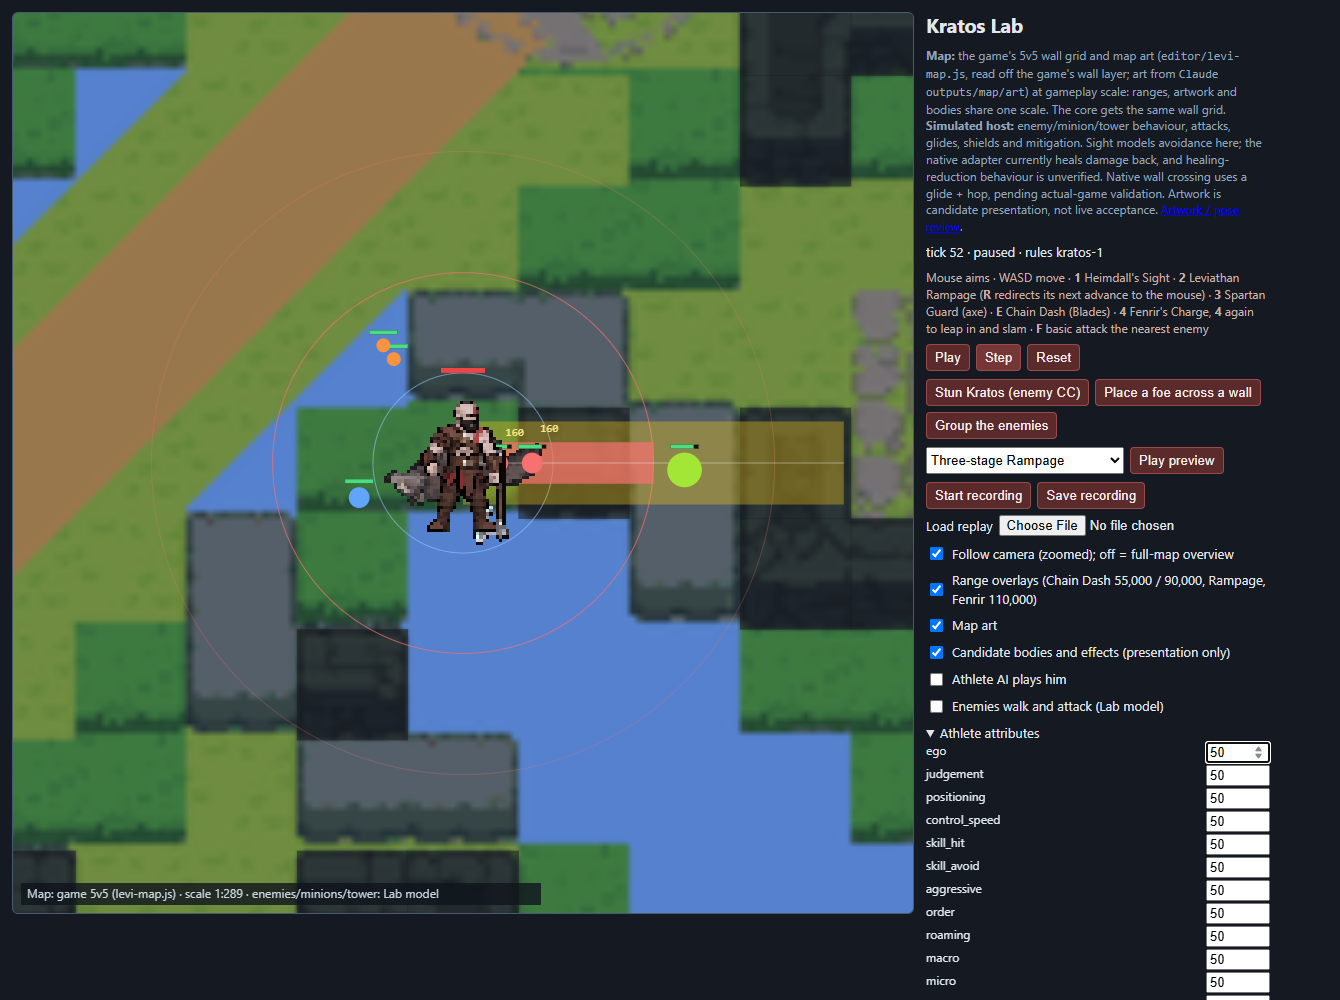
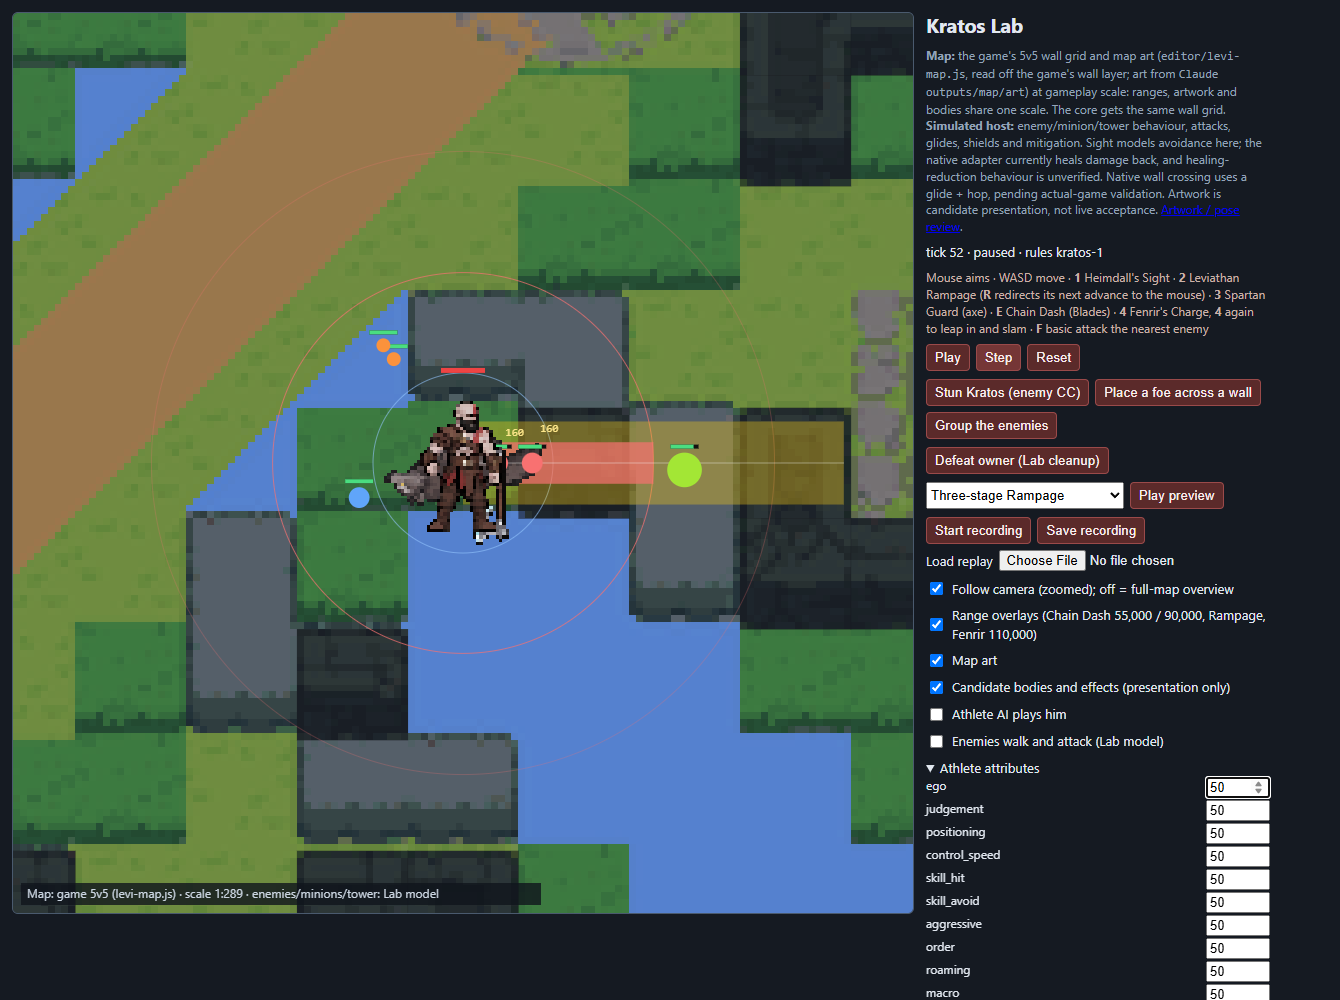
Record Kratos art acceptance and verify current-main integration

diff --git a/editor/kratos-lab.js b/editor/kratos-lab.js
@@ -134,6 +134,9 @@
     if (out.rejection && out.rejection !== lastRejection) log('Refused: ' + out.rejection);
     lastRejection = out.rejection || '';
     apply(out);
+    if(me.hp<=0){
+      me.deadStart??=tick;me.shields=[];me.pose='dead';me.poseUntil=0;glides=[];fx=[];queue=[];pendingHits=[];held.clear();
+    }
     const before = {...me.pos};
     tick++;
     for (const g of glides) { const k = Math.min(1, (tick - g.t0) / (g.t1 - g.t0)); g.who.pos = {x: g.from.x + (g.to.x - g.from.x) * k, y: g.from.y + (g.to.y - g.from.y) * k}; }
@@ -213,6 +216,7 @@
     return list.reduce((s, [a, b]) => s + Math.max(0, Math.min(b, tick) - Math.max(a, from)), 0);
   }
   function draw() {
+    ctx.imageSmoothingEnabled=false;
     if ($('zoom').checked) cam = {x: me.pos.x, y: me.pos.y, s: 900 / 260000}; else cam = {x: 480000, y: 480000, s: 900 / WORLD};
     ctx.fillStyle = '#2a3340'; ctx.fillRect(0, 0, 900, 900);
     const o = P({x: 0, y: 0});
@@ -309,6 +313,7 @@
   $('stunMe').onclick = () => { if (tick < me.immuneUntil) log('Kratos is CC-immune: the stun does nothing'); else { me.stunUntil = tick + 60; log('Kratos stunned 1 s'); } };
   $('wallDemo').onclick = () => { const c = wallCrossing(); me.pos = {...c.from}; find(2).pos = {...c.to}; find(2).hp = 1000; aim = {...c.to}; log('A foe across the wall: Chain Dash (E) hops over it'); };
   $('group').onclick = () => { units.filter(u => u.team === 1 && u.champion).forEach((u, i) => { u.pos = toward(me.pos, aim, 40000 + i * 12000); }); log('Enemies lined up toward the mouse'); };
+  $('defeat').onclick = () => {me.hp=0;me.deadStart=tick;log('Owner defeat injected into the Lab host; next core frame is dead.');};
   $('preview').onclick = () => startDemo($('demo').value);
   $('record').onclick = () => { if (recording) { $('record').textContent = 'Start recording'; recording = null; }
     else { reset(); window.kratosRecording = recording = {version: 1, transport: 1, rules_revision: R.revision, frames: []}; $('record').textContent = 'Stop recording'; log('Recording inputs, outputs and host observations (maximum two minutes).'); } };

diff --git a/editor/kratos.html b/editor/kratos.html
@@ -24,6 +24,7 @@ label{display:flex;gap:6px;align-items:center}
   <div class="keys">Mouse aims · WASD move · <b>1</b> Heimdall's Sight · <b>2</b> Leviathan Rampage (<b>R</b> redirects its next advance to the mouse) · <b>3</b> Spartan Guard (axe) · <b>E</b> Chain Dash (Blades) · <b>4</b> Fenrir's Charge, <b>4</b> again to leap in and slam · <b>F</b> basic attack the nearest enemy</div>
   <div class="row"><button id="play">Pause</button><button id="step">Step</button><button id="reset">Reset</button></div>
   <div class="row"><button id="stunMe">Stun Kratos (enemy CC)</button><button id="wallDemo">Place a foe across a wall</button><button id="group">Group the enemies</button></div>
+  <div class="row"><button id="defeat">Defeat owner (Lab cleanup)</button></div>
   <div class="row"><select id="demo"><option value="rampage">Three-stage Rampage</option><option value="sight">Sight / repeated incoming hits</option><option value="linked-dash">Guard → wall-crossing Dash</option><option value="dash-guard">Dash → empowered Guard</option><option value="fenrir">Fenrir arrival / return slam</option></select><button id="preview">Play preview</button></div>
   <div class="row"><button id="record">Start recording</button><button id="saveRecording">Save recording</button><label>Load replay <input type="file" id="loadRecording" accept=".json"></label></div>
   <label><input type="checkbox" id="zoom" checked> Follow camera (zoomed); off = full-map overview</label>

diff --git a/docs/kratos-art-review/results.md b/docs/kratos-art-review/results.md
@@ -1,0 +1,44 @@
+# Kratos art and Lab verification — 2026-11-10
+
+Implementation began at PR #74 head `740a8e9`. Current main `ad6dda3` was merged as `ef036bc` to preserve round-160 balance changes and resolve the generated roster conflicts. Kratos’s rules/core/data/WASM are unchanged from the original PR head. The new native code selects presentation only.
+
+## Automated results
+
+| Check | Result |
+|---|---|
+| Full native suite, GNU Windows toolchain, after merging main | **1,145 passed, 13 ignored, 0 failed** |
+| Native Kratos subset, before main merge | 30 passed: 26 existing kit/glue tests and four presentation tests |
+| Lab transport | 2 passed |
+| Existing kit browser checks | 10 passed |
+| Artwork/Lab browser checks | **27 passed** |
+| Presentation independence | 24 development + 12 holdout scenarios, identical complete shared-core inputs/outputs with artwork enabled/disabled |
+| Manual athlete independence | Each of 13 values at 20/80, across three fixtures; identical mechanics |
+| Native/WASM parity | **405 complete outputs equal** under identical saved inputs |
+| Recording replay | Every output in a 100-step recording matches; incompatible rules explicitly rejected |
+| Playback | 30/60/120/144/240 Hz each produces exactly 600 simulation ticks in ten seconds; pause/background resets and single-step checked |
+| Packed art | 1,211 animation-frame entries checked; all bounds, mirrored body pixels, foot anchors, pose counts and durations pass |
+| Reproducibility | 24 generated atlases/metadata/clocks/bindings/animations byte-identical after rebuilding frozen sources |
+| Canonical generators | Kratos and roster checks pass; 84 champions, 269 skills |
+| Mod Manager champion loader | `the_repos_champions_all_load` passes |
+| Isolated Manager fixture | 878 files identical; 765 champion files compared, 0 different or missing; exit 0 |
+
+The GNU Windows native test build reports **four inherited dead-code warnings** in Linux-only detour-test helpers (`F2_HELPER`, `f3`, `f4`, `f5`). Do not describe this Windows run as warning-free. Thirteen platform/live-dependent tests remain ignored.
+
+Reproduction commands are in the review README and the corresponding tools. Browser tests use the installed headless Edge and the bundled Playwright module. The unchanged shared core was compiled as the native trace example; no new release DLL was copied into the package.
+
+## Presentation and performance
+
+- Kratos: twelve whole-body poses, eight frames each, both facings; Axe/Blades accessory variants and three Rampage stages. The visible roster idle is the genuine resting body with empty hands. No body hiding or new cosmetic movement/control restrictions.
+- Fenrir: eight running drawings in all eight headings. Every native renewal remains one frame and one tick, selected from a stable three-tick phase clock. No extra emissions.
+- Chain artwork uses the accepted 55,000/90,000 reach, heading and committed midpoint. Frost/fire footprints use canonical swing/smash sizes.
+- Actual map artwork/walls, body/effect scale, square canvas pixels, full-map/follow views and focus-safe keyboard input are checked. Map art is no longer vertically stretched beside the inspector.
+- Native body + weapon + FX atlas allocation: **16 MiB**; maximum atlas edge **2048**. The offline assembled-preview atlas is not shipped or loaded by the Lab.
+- Five local browser cold navigation/art loads: approximately **208–244 ms**. Five sustained 12-body + Fenrir render runs: **0.2 ms p95** at this timer’s resolution. These are local browser measurements, not native host performance or Magnus’s 128-piece acceptance.
+
+## Separate release and live gates
+
[1 lines of base64/hex data omitted]
+
+Pending actual-game checks: roster visibility; hand/weapon alignment under host facing/pose clocks; both weapon stances; interruption/death/respawn and crowded combat; Sight callback timing, shields and healing reduction; Chain Dash’s glide-plus-hop wall presentation; cage interaction; Fenrir target eligibility and cleanup. Lab damage/HP/shield results are simulated host observations and do not prove engine acceptance.
+
+Sight still refunds damage through healing natively; this pass does not turn it into genuine pre-hit avoidance. The Lab labels its idealised avoidance model. Balance, the level-10 release comparison, a new packaged DLL/hash, installation and backed-up career migration remain separate. No real game or career was modified.

diff --git a/docs/kratos-art-review/README.md b/docs/kratos-art-review/README.md
@@ -33,6 +33,7 @@ The native body/weapon/FX allocation totals **16 MiB**, below 32 MiB. Atlases ar
 ## Review and limitations
 
 - `editor/kratos-review.html`: actual-size/3× comparisons, all poses/frames/facings and effect playback.
+- `rtk proxy powershell -NoProfile -File tools/start-kratos-review.ps1`: start the review server in a hidden window at http://localhost:7302/kratos-review.html. `-Restart` restarts only a verified Node editor server on that port.
 - `editor/kratos.html`: fixed-60-Hz WASM simulation, actual 5v5 map, full-map/follow views, supported manual commands, thirteen athlete values, demos and recordings.
 - `tools/test-kratos-art.cjs`: browser/route, playback, recording, presentation independence, scenario and manual-profile checks.
 - `tools/verify-kratos-art.py`: source hashes, atlas bounds, mirrors, anchors, unchanged combat data and complete native/WASM output comparisons.
